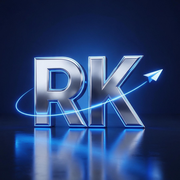
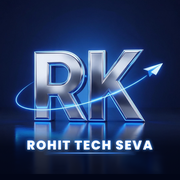
Rohit Tech Seva branding + Follow/Join social links (YouTube, WhatsApp Channel, Instagram, Facebook)

diff --git a/index.html b/index.html
@@ -3,12 +3,13 @@
 <head>
 <meta charset="utf-8">
 <meta name="viewport" content="width=1280">
-<title>Rudra Kumar (Rohit Malhotra) – Computer Operator &amp; Cyber Cafe · Gaya, Bihar</title>
-<meta name="description" content="Rudra Kumar (Rohit Malhotra) – Computer Operator, Cyber Cafe owner and YouTuber (Travel with RK) from Paraiya, Gaya, Bihar. Online forms, government services, data entry, MS Office.">
-<meta name="keywords" content="Rudra Kumar, Rohit Malhotra, Rohit Malhotra Gaya, Rudra Kumar Gaya, Rohit Malhotra Paraiya, Rudra Kumar Paraiya, Rohit Malhotra Cyber Cafe, Rohit Malhotra Bihar, Rudra Kumar Bihar, Travel with RK, Travel with RK YouTube, RK Gaya, Rudra Kumar Manjhiyawan, Rohit Malhotra Manjhiyawan, Cyber Cafe Gaya, Cyber Cafe Paraiya, Online Form Gaya, Online Form Paraiya, Computer Operator Gaya, Computer Operator Paraiya, Data Entry Gaya, Data Entry Paraiya, Aadhaar Update Gaya, Aadhaar Update Paraiya, PAN Card Gaya, PAN Card Paraiya, RTPS Certificate Gaya, RTPS Certificate Paraiya, Income Certificate Gaya, Income Certificate Paraiya, Caste Certificate Gaya, Caste Certificate Paraiya, Residence Certificate Gaya, Residence Certificate Paraiya, Ration Card e-KYC Gaya, Ration Card e-KYC Paraiya, Ayushman Card Gaya, Ayushman Card Paraiya, Voter ID Gaya, Voter ID Paraiya, Job Form Gaya, Job Form Paraiya, Scholarship Form Gaya, Scholarship Form Paraiya, Bank Form Gaya, Bank Form Paraiya, Photocopy Print Gaya, Photocopy Print Paraiya, Passport Photo Gaya, Passport Photo Paraiya, Online Recharge Gaya, Online Recharge Paraiya, Bill Payment Gaya, Bill Payment Paraiya, Railway Ticket Gaya, Railway Ticket Paraiya, MS Office Gaya, MS Office Paraiya, Typing Gaya, Typing Paraiya, Resume Banana Gaya, Resume Banana Paraiya, Cyber Cafe Manjhiyawan, Cyber Cafe Bihar, Cyber Cafe Gaya Bihar, Cyber Cafe Paraiya Gaya, Cyber Cafe Bodh Gaya, Cyber Cafe Tekari, Cyber Cafe Konch, Cyber Cafe Sherghati, Online Form Bihar, Online Form Bodh Gaya, Online Form Tekari, Online Form Sherghati, Online Form Konch, Computer Operator Bihar, Computer Operator Bodh Gaya, Computer Operator Tekari, Computer Operator Sherghati, Computer Operator Konch, Data Entry Bihar, Data Entry Bodh Gaya, Data Entry Tekari, Data Entry Sherghati, Data Entry Konch, Aadhaar Update Bihar, Aadhaar Update Bodh Gaya, Aadhaar Update Tekari, Aadhaar Update Sherghati, Aadhaar Update Konch, PAN Card Bihar, PAN Card Bodh Gaya, PAN Card Tekari, PAN Card Sherghati, PAN Card Konch, RTPS Certificate Bihar, RTPS Certificate Bodh Gaya, RTPS Certificate Tekari, RTPS Certificate Sherghati, RTPS Certificate Konch">
-<meta property="og:title" content="Rudra Kumar (Rohit Malhotra) – Gaya, Bihar">
-<meta property="og:description" content="Computer Operator · Cyber Cafe Owner · YouTuber (Travel with RK) · Gaya, Bihar">
-<meta property="og:image" content="https://rohitmalhotra-gaya.github.io/og.jpg">
+<title>Rohit Tech Seva – Online Seva, Cyber Cafe &amp; YouTube · Gaya, Bihar</title>
+<meta name="description" content="Rohit Tech Seva – online forms, government services (Aadhaar, PAN, Ration Card, Ayushman, RTPS certificates), cyber cafe and Hindi how-to YouTube videos from Paraiya, Gaya, Bihar. Run by Rohit Malhotra (Rudra Kumar).">
+<meta name="keywords" content="Rudra Kumar, Rohit Malhotra, Rohit Malhotra Gaya, Rudra Kumar Gaya, Rohit Malhotra Paraiya, Rudra Kumar Paraiya, Rohit Malhotra Cyber Cafe, Rohit Malhotra Bihar, Rudra Kumar Bihar, Rohit Tech Seva, Rohit Tech Seva YouTube, RK Gaya, Rudra Kumar Manjhiyawan, Rohit Malhotra Manjhiyawan, Cyber Cafe Gaya, Cyber Cafe Paraiya, Online Form Gaya, Online Form Paraiya, Computer Operator Gaya, Computer Operator Paraiya, Data Entry Gaya, Data Entry Paraiya, Aadhaar Update Gaya, Aadhaar Update Paraiya, PAN Card Gaya, PAN Card Paraiya, RTPS Certificate Gaya, RTPS Certificate Paraiya, Income Certificate Gaya, Income Certificate Paraiya, Caste Certificate Gaya, Caste Certificate Paraiya, Residence Certificate Gaya, Residence Certificate Paraiya, Ration Card e-KYC Gaya, Ration Card e-KYC Paraiya, Ayushman Card Gaya, Ayushman Card Paraiya, Voter ID Gaya, Voter ID Paraiya, Job Form Gaya, Job Form Paraiya, Scholarship Form Gaya, Scholarship Form Paraiya, Bank Form Gaya, Bank Form Paraiya, Photocopy Print Gaya, Photocopy Print Paraiya, Passport Photo Gaya, Passport Photo Paraiya, Online Recharge Gaya, Online Recharge Paraiya, Bill Payment Gaya, Bill Payment Paraiya, Railway Ticket Gaya, Railway Ticket Paraiya, MS Office Gaya, MS Office Paraiya, Typing Gaya, Typing Paraiya, Resume Banana Gaya, Resume Banana Paraiya, Cyber Cafe Manjhiyawan, Cyber Cafe Bihar, Cyber Cafe Gaya Bihar, Cyber Cafe Paraiya Gaya, Cyber Cafe Bodh Gaya, Cyber Cafe Tekari, Cyber Cafe Konch, Cyber Cafe Sherghati, Online Form Bihar, Online Form Bodh Gaya, Online Form Tekari, Online Form Sherghati, Online Form Konch, Computer Operator Bihar, Computer Operator Bodh Gaya, Computer Operator Tekari, Computer Operator Sherghati, Computer Operator Konch, Data Entry Bihar, Data Entry Bodh Gaya, Data Entry Tekari, Data Entry Sherghati, Data Entry Konch, Aadhaar Update Bihar, Aadhaar Update Bodh Gaya, Aadhaar Update Tekari, Aadhaar Update Sherghati, Aadhaar Update Konch, PAN Card Bihar, PAN Card Bodh Gaya, PAN Card Tekari, PAN Card Sherghati, PAN Card Konch, RTPS Certificate Bihar, RTPS Certificate Bodh Gaya, RTPS Certificate Tekari, RTPS Certificate Sherghati, RTPS Certificate Konch">
+<meta property="og:title" content="Rohit Tech Seva – Gaya, Bihar">
+<meta property="og:site_name" content="Rohit Tech Seva">
+<meta property="og:description" content="Computer Operator · Cyber Cafe Owner · YouTuber (Rohit Tech Seva) · Gaya, Bihar">
+<meta property="og:image" content="https://rohitmalhotra-gaya.github.io/og-rts.jpg">
 <meta property="og:type" content="website">
 <meta name="twitter:card" content="summary_large_image">
 <meta name="theme-color" content="#050b1f">
@@ -26,9 +27,9 @@
 
 <header class="nav" id="nav">
   <div class="container nav-in">
-    <a class="brand" href="#top" aria-label="Rudra Kumar – home"><img src="rk-logo-96.jpg" alt="" width="40" height="40"><span>Rudra <em>Kumar</em></span></a>
+    <a class="brand" href="#top" aria-label="Rohit Tech Seva – home"><img src="rts-logo-96.jpg" alt="Rohit Tech Seva logo" width="40" height="40"><span>Rohit <em>Tech Seva</em></span></a>
     <nav aria-label="Sections" class="links">
-      <a href="#about">About</a><a href="#cafe">Cyber Cafe</a><a href="#youtube">YouTube</a><a href="#contact">Contact</a>
+      <a href="#about">About</a><a href="#cafe">Cyber Cafe</a><a href="#youtube">YouTube</a><a href="#follow">Follow</a><a href="#contact">Contact</a>
     </nav>
     <a class="btn btn-y btn-sm nav-cta" href="mailto:rk8122170@gmail.com"><svg viewBox="0 0 24 24" aria-hidden="true" fill="none" stroke="currentColor" stroke-width="1.8" stroke-linecap="round" stroke-linejoin="round"><rect x="3" y="5" width="18" height="14" rx="2"/><path d="M3 7l9 6 9-6"/></svg><span>Email</span></a>
   </div>
@@ -39,12 +40,12 @@
   <div class="container hero-grid">
     <div class="hero-photo reveal">
       <div class="ring"><div class="ring-in"><img src="rudra.jpg" alt="Photo of Rudra Kumar" width="600" height="800" fetchpriority="high"></div></div>
-      <img class="hero-logo" src="rk-logo-320.jpg" alt="RK logo – Travel with RK" width="96" height="96">
+      <img class="hero-logo" src="rts-logo-320.jpg" alt="Rohit Tech Seva logo" width="96" height="96">
     </div>
     <div class="hero-copy">
-      <p class="pill reveal"><span class="dot"></span>Rohit Malhotra · Gaya, Bihar</p>
-      <h1 class="reveal" style="--d:80ms">Hi, I'm <span class="y">Rudra Kumar</span></h1>
-      <p class="tagline reveal" style="--d:140ms">B.A. Graduate · Computer Operator · Cyber Cafe Owner · YouTuber</p>
+      <p class="pill reveal"><span class="dot"></span>by Rohit Malhotra (Rudra Kumar) · Gaya, Bihar</p>
+      <h1 class="reveal" style="--d:80ms">Rohit <span class="y">Tech Seva</span></h1>
+      <p class="tagline reveal" style="--d:140ms">Online Seva · Cyber Cafe · YouTube · Gaya, Bihar</p>
       <p class="intro reveal" style="--d:200ms">Digital services, government forms and online work — all in one place.</p>
       <div class="cta reveal" style="--d:260ms">
         <a class="btn btn-y" href="mailto:rk8122170@gmail.com"><svg viewBox="0 0 24 24" aria-hidden="true" fill="none" stroke="currentColor" stroke-width="1.8" stroke-linecap="round" stroke-linejoin="round"><rect x="3" y="5" width="18" height="14" rx="2"/><path d="M3 7l9 6 9-6"/></svg>Email</a>
@@ -52,7 +53,8 @@
       <div class="socials reveal" style="--d:320ms" aria-label="Social links">
         <a href="https://www.instagram.com/mr._.rohitmalhotra/" target="_blank" rel="noopener" aria-label="Instagram"><svg viewBox="0 0 24 24" aria-hidden="true" fill="none" stroke="currentColor" stroke-width="1.8"><rect x="3" y="3" width="18" height="18" rx="5"/><circle cx="12" cy="12" r="4"/><circle cx="17.5" cy="6.5" r="1" fill="currentColor" stroke="none"/></svg></a>
         <a href="https://www.facebook.com/share/1C2KRwQqYV/" target="_blank" rel="noopener" aria-label="Facebook"><svg viewBox="0 0 24 24" aria-hidden="true"><path fill="currentColor" d="M13.5 22v-8h2.7l.4-3.2h-3.1V8.8c0-.9.3-1.6 1.6-1.6h1.7V4.4c-.3 0-1.3-.1-2.5-.1-2.5 0-4.1 1.5-4.1 4.2v2.3H7.4V14h2.8v8z"/></svg></a>
-        <a href="https://www.youtube.com/@travelwithrk-2" target="_blank" rel="noopener" aria-label="YouTube"><svg viewBox="0 0 24 24" aria-hidden="true"><path fill="currentColor" d="M23 7.2a3 3 0 0 0-2.1-2.1C19 4.6 12 4.6 12 4.6s-7 0-8.9.5A3 3 0 0 0 1 7.2 31 31 0 0 0 .5 12a31 31 0 0 0 .5 4.8 3 3 0 0 0 2.1 2.1c1.9.5 8.9.5 8.9.5s7 0 8.9-.5a3 3 0 0 0 2.1-2.1 31 31 0 0 0 .5-4.8 31 31 0 0 0-.5-4.8zM9.75 15V9l5.75 3z"/></svg></a>
+        <a href="https://www.youtube.com/@rohittechseva" target="_blank" rel="noopener" aria-label="YouTube"><svg viewBox="0 0 24 24" aria-hidden="true"><path fill="currentColor" d="M23 7.2a3 3 0 0 0-2.1-2.1C19 4.6 12 4.6 12 4.6s-7 0-8.9.5A3 3 0 0 0 1 7.2 31 31 0 0 0 .5 12a31 31 0 0 0 .5 4.8 3 3 0 0 0 2.1 2.1c1.9.5 8.9.5 8.9.5s7 0 8.9-.5a3 3 0 0 0 2.1-2.1 31 31 0 0 0 .5-4.8 31 31 0 0 0-.5-4.8zM9.75 15V9l5.75 3z"/></svg></a>
+        <a href="https://whatsapp.com/channel/0029VbDy0eJIN9ikIs6v2k0Z" target="_blank" rel="noopener" aria-label="WhatsApp Channel"><svg viewBox="0 0 24 24" aria-hidden="true"><path fill="currentColor" d="M12.04 2C6.58 2 2.13 6.45 2.13 11.91c0 1.75.46 3.45 1.32 4.95L2.05 22l5.25-1.38a9.9 9.9 0 0 0 4.74 1.21c5.46 0 9.91-4.45 9.91-9.91C21.95 6.45 17.5 2 12.04 2zm5.8 14.13c-.24.68-1.42 1.3-1.95 1.35-.5.05-.97.23-3.27-.68-2.77-1.09-4.52-3.92-4.66-4.1-.13-.18-1.11-1.48-1.11-2.82 0-1.34.7-2 .95-2.27.25-.27.54-.34.72-.34h.52c.17 0 .39-.06.61.47.24.56.79 1.92.86 2.06.07.14.11.3.02.48-.09.18-.14.3-.27.46-.14.16-.29.36-.41.48-.14.14-.28.29-.12.56.16.27.71 1.17 1.52 1.89 1.04.93 1.92 1.22 2.19 1.35.27.14.43.11.59-.07.16-.18.68-.79.86-1.07.18-.27.36-.23.61-.14.25.09 1.59.75 1.86.89.27.14.45.2.52.32.07.11.07.66-.17 1.34z"/></svg></a>
         <a href="https://www.linkedin.com/in/rudrakumar-gaya" target="_blank" rel="noopener" aria-label="LinkedIn"><svg viewBox="0 0 24 24" aria-hidden="true"><path fill="currentColor" d="M4.98 3.5a2.5 2.5 0 1 1 0 5 2.5 2.5 0 0 1 0-5zM3 9.75h4v11H3zm7 0h3.8v1.5h.06a4.2 4.2 0 0 1 3.78-2.08c4.04 0 4.36 2.66 4.36 6.1v5.48h-4v-4.86c0-1.16 0-2.65-1.62-2.65s-1.86 1.26-1.86 2.57v4.94h-4z"/></svg></a>
       </div>
     </div>
@@ -124,18 +126,32 @@
 <section id="youtube" class="section">
   <div class="container">
     <p class="eyebrow reveal">YouTube</p>
-    <h2 class="reveal">Travel with <span class="y">RK</span></h2>
-    <p class="sub reveal">@travelwithrk-2 · 7.4K+ subscribers · Helpful how-to videos in Hindi</p>
-    <a class="banner reveal" href="https://www.youtube.com/@travelwithrk-2" target="_blank" rel="noopener" aria-label="Open Travel with RK on YouTube"><img src="banner.jpg" alt="Travel with RK channel banner" width="1600" height="900" loading="lazy"></a>
+    <h2 class="reveal">Rohit Tech <span class="y">Seva</span></h2>
+    <p class="sub reveal">@rohittechseva · 7.4K+ subscribers · Helpful how-to videos in Hindi</p>
+    <a class="banner reveal" href="https://www.youtube.com/@rohittechseva" target="_blank" rel="noopener" aria-label="Open Rohit Tech Seva on YouTube"><img src="banner.jpg" alt="Rohit Tech Seva channel banner" width="1600" height="900" loading="lazy"></a>
     <div class="yt-grid">
-      <a class="video glass reveal" href="https://www.youtube.com/watch?v=aO0Y3cauSPk" target="_blank" rel="noopener" data-yt="aO0Y3cauSPk" aria-label="Play video: Ration card e-KYC – Travel with RK"><img src="video-thumb.jpg" alt="Ration card e-KYC – Travel with RK video" width="960" height="540" loading="lazy"><span class="play" aria-hidden="true"><svg viewBox="0 0 24 24"><path fill="currentColor" d="M8 5v14l11-7z"/></svg></span></a>
+      <a class="video glass reveal" href="https://www.youtube.com/watch?v=aO0Y3cauSPk" target="_blank" rel="noopener" data-yt="aO0Y3cauSPk" aria-label="Play video: Ration card e-KYC – Rohit Tech Seva"><img src="video-thumb.jpg" alt="Ration card e-KYC – Rohit Tech Seva video" width="960" height="540" loading="lazy"><span class="play" aria-hidden="true"><svg viewBox="0 0 24 24"><path fill="currentColor" d="M8 5v14l11-7z"/></svg></span></a>
       <aside class="glass yt-card reveal" style="--d:80ms">
-        <img src="channel-qr.jpg" alt="Travel with RK channel QR code poster" width="620" height="877" loading="lazy">
+        <img src="channel-qr.jpg" alt="Rohit Tech Seva channel QR code poster" width="620" height="877" loading="lazy">
         <div class="yt-btns">
-          <a class="btn btn-red" href="https://www.youtube.com/@travelwithrk-2?sub_confirmation=1" target="_blank" rel="noopener"><svg viewBox="0 0 24 24" aria-hidden="true"><path fill="currentColor" d="M23 7.2a3 3 0 0 0-2.1-2.1C19 4.6 12 4.6 12 4.6s-7 0-8.9.5A3 3 0 0 0 1 7.2 31 31 0 0 0 .5 12a31 31 0 0 0 .5 4.8 3 3 0 0 0 2.1 2.1c1.9.5 8.9.5 8.9.5s7 0 8.9-.5a3 3 0 0 0 2.1-2.1 31 31 0 0 0 .5-4.8 31 31 0 0 0-.5-4.8zM9.75 15V9l5.75 3z"/></svg>Subscribe</a>
-          <a class="btn btn-glass" href="https://www.youtube.com/@travelwithrk-2" target="_blank" rel="noopener"><svg viewBox="0 0 24 24" aria-hidden="true" fill="none" stroke="currentColor" stroke-width="1.8" stroke-linecap="round" stroke-linejoin="round"><path d="M14 4h6v6M20 4l-9 9M18 14v5a1 1 0 0 1-1 1H5a1 1 0 0 1-1-1V7a1 1 0 0 1 1-1h5"/></svg>Visit Channel</a>
+          <a class="btn btn-red" href="https://www.youtube.com/@rohittechseva?sub_confirmation=1" target="_blank" rel="noopener"><svg viewBox="0 0 24 24" aria-hidden="true"><path fill="currentColor" d="M23 7.2a3 3 0 0 0-2.1-2.1C19 4.6 12 4.6 12 4.6s-7 0-8.9.5A3 3 0 0 0 1 7.2 31 31 0 0 0 .5 12a31 31 0 0 0 .5 4.8 3 3 0 0 0 2.1 2.1c1.9.5 8.9.5 8.9.5s7 0 8.9-.5a3 3 0 0 0 2.1-2.1 31 31 0 0 0 .5-4.8 31 31 0 0 0-.5-4.8zM9.75 15V9l5.75 3z"/></svg>Subscribe</a>
+          <a class="btn btn-glass" href="https://www.youtube.com/@rohittechseva" target="_blank" rel="noopener"><svg viewBox="0 0 24 24" aria-hidden="true" fill="none" stroke="currentColor" stroke-width="1.8" stroke-linecap="round" stroke-linejoin="round"><path d="M14 4h6v6M20 4l-9 9M18 14v5a1 1 0 0 1-1 1H5a1 1 0 0 1-1-1V7a1 1 0 0 1 1-1h5"/></svg>Visit Channel</a>
         </div>
       </aside>
+    </div>
+  </div>
+</section>
+
+<section id="follow" class="section follow">
+  <div class="container">
+    <p class="eyebrow reveal">Follow / Join</p>
+    <h2 class="reveal">Follow <span class="y">Rohit Tech Seva</span></h2>
+    <p class="sub reveal">सरकारी योजना और ऑनलाइन सेवा की हर नई जानकारी के लिए जुड़ें</p>
+    <div class="follow-grid">
+      <a class="follow-btn reveal" href="https://www.youtube.com/@rohittechseva?sub_confirmation=1" target="_blank" rel="noopener"><span class="f-ico"><svg viewBox="0 0 24 24" aria-hidden="true"><path fill="currentColor" d="M23 7.2a3 3 0 0 0-2.1-2.1C19 4.6 12 4.6 12 4.6s-7 0-8.9.5A3 3 0 0 0 1 7.2 31 31 0 0 0 .5 12a31 31 0 0 0 .5 4.8 3 3 0 0 0 2.1 2.1c1.9.5 8.9.5 8.9.5s7 0 8.9-.5a3 3 0 0 0 2.1-2.1 31 31 0 0 0 .5-4.8 31 31 0 0 0-.5-4.8zM9.75 15V9l5.75 3z"/></svg></span><span class="f-txt"><b>YouTube</b><small>Subscribe</small></span></a>
+      <a class="follow-btn reveal" href="https://whatsapp.com/channel/0029VbDy0eJIN9ikIs6v2k0Z" target="_blank" rel="noopener"><span class="f-ico"><svg viewBox="0 0 24 24" aria-hidden="true"><path fill="currentColor" d="M12.04 2C6.58 2 2.13 6.45 2.13 11.91c0 1.75.46 3.45 1.32 4.95L2.05 22l5.25-1.38a9.9 9.9 0 0 0 4.74 1.21c5.46 0 9.91-4.45 9.91-9.91C21.95 6.45 17.5 2 12.04 2zm5.8 14.13c-.24.68-1.42 1.3-1.95 1.35-.5.05-.97.23-3.27-.68-2.77-1.09-4.52-3.92-4.66-4.1-.13-.18-1.11-1.48-1.11-2.82 0-1.34.7-2 .95-2.27.25-.27.54-.34.72-.34h.52c.17 0 .39-.06.61.47.24.56.79 1.92.86 2.06.07.14.11.3.02.48-.09.18-.14.3-.27.46-.14.16-.29.36-.41.48-.14.14-.28.29-.12.56.16.27.71 1.17 1.52 1.89 1.04.93 1.92 1.22 2.19 1.35.27.14.43.11.59-.07.16-.18.68-.79.86-1.07.18-.27.36-.23.61-.14.25.09 1.59.75 1.86.89.27.14.45.2.52.32.07.11.07.66-.17 1.34z"/></svg></span><span class="f-txt"><b>WhatsApp Channel</b><small>Join Channel</small></span></a>
+      <a class="follow-btn reveal" href="https://www.instagram.com/mr._.rohitmalhotra/" target="_blank" rel="noopener"><span class="f-ico"><svg viewBox="0 0 24 24" aria-hidden="true" fill="none" stroke="currentColor" stroke-width="1.8"><rect x="3" y="3" width="18" height="18" rx="5"/><circle cx="12" cy="12" r="4"/><circle cx="17.5" cy="6.5" r="1" fill="currentColor" stroke="none"/></svg></span><span class="f-txt"><b>Instagram</b><small>Follow</small></span></a>
+      <a class="follow-btn reveal" href="https://www.facebook.com/share/1C2KRwQqYV/" target="_blank" rel="noopener"><span class="f-ico"><svg viewBox="0 0 24 24" aria-hidden="true"><path fill="currentColor" d="M13.5 22v-8h2.7l.4-3.2h-3.1V8.8c0-.9.3-1.6 1.6-1.6h1.7V4.4c-.3 0-1.3-.1-2.5-.1-2.5 0-4.1 1.5-4.1 4.2v2.3H7.4V14h2.8v8z"/></svg></span><span class="f-txt"><b>Facebook</b><small>Follow</small></span></a>
     </div>
   </div>
 </section>
@@ -148,7 +164,8 @@
       <a class="glass contact reveal" href="mailto:rk8122170@gmail.com"><span class="ico"><svg viewBox="0 0 24 24" aria-hidden="true" fill="none" stroke="currentColor" stroke-width="1.8" stroke-linecap="round" stroke-linejoin="round"><rect x="3" y="5" width="18" height="14" rx="2"/><path d="M3 7l9 6 9-6"/></svg></span><span><b>Email</b><small>rk8122170@gmail.com</small></span></a>
       <a class="glass contact reveal" href="https://www.instagram.com/mr._.rohitmalhotra/" target="_blank" rel="noopener"><span class="ico"><svg viewBox="0 0 24 24" aria-hidden="true" fill="none" stroke="currentColor" stroke-width="1.8"><rect x="3" y="3" width="18" height="18" rx="5"/><circle cx="12" cy="12" r="4"/><circle cx="17.5" cy="6.5" r="1" fill="currentColor" stroke="none"/></svg></span><span><b>Instagram</b><small>@mr._.rohitmalhotra</small></span></a>
       <a class="glass contact reveal" href="https://www.facebook.com/share/1C2KRwQqYV/" target="_blank" rel="noopener"><span class="ico"><svg viewBox="0 0 24 24" aria-hidden="true"><path fill="currentColor" d="M13.5 22v-8h2.7l.4-3.2h-3.1V8.8c0-.9.3-1.6 1.6-1.6h1.7V4.4c-.3 0-1.3-.1-2.5-.1-2.5 0-4.1 1.5-4.1 4.2v2.3H7.4V14h2.8v8z"/></svg></span><span><b>Facebook</b><small>Rudra Kumar</small></span></a>
-      <a class="glass contact reveal" href="https://www.youtube.com/@travelwithrk-2" target="_blank" rel="noopener"><span class="ico"><svg viewBox="0 0 24 24" aria-hidden="true"><path fill="currentColor" d="M23 7.2a3 3 0 0 0-2.1-2.1C19 4.6 12 4.6 12 4.6s-7 0-8.9.5A3 3 0 0 0 1 7.2 31 31 0 0 0 .5 12a31 31 0 0 0 .5 4.8 3 3 0 0 0 2.1 2.1c1.9.5 8.9.5 8.9.5s7 0 8.9-.5a3 3 0 0 0 2.1-2.1 31 31 0 0 0 .5-4.8 31 31 0 0 0-.5-4.8zM9.75 15V9l5.75 3z"/></svg></span><span><b>YouTube</b><small>@travelwithrk-2</small></span></a>
+      <a class="glass contact reveal" href="https://www.youtube.com/@rohittechseva" target="_blank" rel="noopener"><span class="ico"><svg viewBox="0 0 24 24" aria-hidden="true"><path fill="currentColor" d="M23 7.2a3 3 0 0 0-2.1-2.1C19 4.6 12 4.6 12 4.6s-7 0-8.9.5A3 3 0 0 0 1 7.2 31 31 0 0 0 .5 12a31 31 0 0 0 .5 4.8 3 3 0 0 0 2.1 2.1c1.9.5 8.9.5 8.9.5s7 0 8.9-.5a3 3 0 0 0 2.1-2.1 31 31 0 0 0 .5-4.8 31 31 0 0 0-.5-4.8zM9.75 15V9l5.75 3z"/></svg></span><span><b>YouTube</b><small>@rohittechseva</small></span></a>
+      <a class="glass contact reveal" href="https://whatsapp.com/channel/0029VbDy0eJIN9ikIs6v2k0Z" target="_blank" rel="noopener"><span class="ico"><svg viewBox="0 0 24 24" aria-hidden="true"><path fill="currentColor" d="M12.04 2C6.58 2 2.13 6.45 2.13 11.91c0 1.75.46 3.45 1.32 4.95L2.05 22l5.25-1.38a9.9 9.9 0 0 0 4.74 1.21c5.46 0 9.91-4.45 9.91-9.91C21.95 6.45 17.5 2 12.04 2zm5.8 14.13c-.24.68-1.42 1.3-1.95 1.35-.5.05-.97.23-3.27-.68-2.77-1.09-4.52-3.92-4.66-4.1-.13-.18-1.11-1.48-1.11-2.82 0-1.34.7-2 .95-2.27.25-.27.54-.34.72-.34h.52c.17 0 .39-.06.61.47.24.56.79 1.92.86 2.06.07.14.11.3.02.48-.09.18-.14.3-.27.46-.14.16-.29.36-.41.48-.14.14-.28.29-.12.56.16.27.71 1.17 1.52 1.89 1.04.93 1.92 1.22 2.19 1.35.27.14.43.11.59-.07.16-.18.68-.79.86-1.07.18-.27.36-.23.61-.14.25.09 1.59.75 1.86.89.27.14.45.2.52.32.07.11.07.66-.17 1.34z"/></svg></span><span><b>WhatsApp Channel</b><small>Rohit Tech Seva</small></span></a>
       <a class="glass contact reveal" href="https://www.linkedin.com/in/rudrakumar-gaya" target="_blank" rel="noopener"><span class="ico"><svg viewBox="0 0 24 24" aria-hidden="true"><path fill="currentColor" d="M4.98 3.5a2.5 2.5 0 1 1 0 5 2.5 2.5 0 0 1 0-5zM3 9.75h4v11H3zm7 0h3.8v1.5h.06a4.2 4.2 0 0 1 3.78-2.08c4.04 0 4.36 2.66 4.36 6.1v5.48h-4v-4.86c0-1.16 0-2.65-1.62-2.65s-1.86 1.26-1.86 2.57v4.94h-4z"/></svg></span><span><b>LinkedIn</b><small>rudrakumar-gaya</small></span></a>
     </div>
   </div>
@@ -158,23 +175,24 @@
 <footer class="footer">
   <div class="container">
     <div class="foot-top">
-      <a class="brand" href="#top"><img src="rk-logo-96.jpg" alt="" width="40" height="40" loading="lazy"><span>Rudra <em>Kumar</em></span></a>
+      <a class="brand" href="#top"><img src="rts-logo-96.jpg" alt="Rohit Tech Seva logo" width="40" height="40" loading="lazy"><span>Rohit <em>Tech Seva</em></span></a>
       <div class="socials small">
         <a href="https://www.instagram.com/mr._.rohitmalhotra/" target="_blank" rel="noopener" aria-label="Instagram"><svg viewBox="0 0 24 24" aria-hidden="true" fill="none" stroke="currentColor" stroke-width="1.8"><rect x="3" y="3" width="18" height="18" rx="5"/><circle cx="12" cy="12" r="4"/><circle cx="17.5" cy="6.5" r="1" fill="currentColor" stroke="none"/></svg></a>
         <a href="https://www.facebook.com/share/1C2KRwQqYV/" target="_blank" rel="noopener" aria-label="Facebook"><svg viewBox="0 0 24 24" aria-hidden="true"><path fill="currentColor" d="M13.5 22v-8h2.7l.4-3.2h-3.1V8.8c0-.9.3-1.6 1.6-1.6h1.7V4.4c-.3 0-1.3-.1-2.5-.1-2.5 0-4.1 1.5-4.1 4.2v2.3H7.4V14h2.8v8z"/></svg></a>
-        <a href="https://www.youtube.com/@travelwithrk-2" target="_blank" rel="noopener" aria-label="YouTube"><svg viewBox="0 0 24 24" aria-hidden="true"><path fill="currentColor" d="M23 7.2a3 3 0 0 0-2.1-2.1C19 4.6 12 4.6 12 4.6s-7 0-8.9.5A3 3 0 0 0 1 7.2 31 31 0 0 0 .5 12a31 31 0 0 0 .5 4.8 3 3 0 0 0 2.1 2.1c1.9.5 8.9.5 8.9.5s7 0 8.9-.5a3 3 0 0 0 2.1-2.1 31 31 0 0 0 .5-4.8 31 31 0 0 0-.5-4.8zM9.75 15V9l5.75 3z"/></svg></a>
+        <a href="https://www.youtube.com/@rohittechseva" target="_blank" rel="noopener" aria-label="YouTube"><svg viewBox="0 0 24 24" aria-hidden="true"><path fill="currentColor" d="M23 7.2a3 3 0 0 0-2.1-2.1C19 4.6 12 4.6 12 4.6s-7 0-8.9.5A3 3 0 0 0 1 7.2 31 31 0 0 0 .5 12a31 31 0 0 0 .5 4.8 3 3 0 0 0 2.1 2.1c1.9.5 8.9.5 8.9.5s7 0 8.9-.5a3 3 0 0 0 2.1-2.1 31 31 0 0 0 .5-4.8 31 31 0 0 0-.5-4.8zM9.75 15V9l5.75 3z"/></svg></a>
+        <a href="https://whatsapp.com/channel/0029VbDy0eJIN9ikIs6v2k0Z" target="_blank" rel="noopener" aria-label="WhatsApp Channel"><svg viewBox="0 0 24 24" aria-hidden="true"><path fill="currentColor" d="M12.04 2C6.58 2 2.13 6.45 2.13 11.91c0 1.75.46 3.45 1.32 4.95L2.05 22l5.25-1.38a9.9 9.9 0 0 0 4.74 1.21c5.46 0 9.91-4.45 9.91-9.91C21.95 6.45 17.5 2 12.04 2zm5.8 14.13c-.24.68-1.42 1.3-1.95 1.35-.5.05-.97.23-3.27-.68-2.77-1.09-4.52-3.92-4.66-4.1-.13-.18-1.11-1.48-1.11-2.82 0-1.34.7-2 .95-2.27.25-.27.54-.34.72-.34h.52c.17 0 .39-.06.61.47.24.56.79 1.92.86 2.06.07.14.11.3.02.48-.09.18-.14.3-.27.46-.14.16-.29.36-.41.48-.14.14-.28.29-.12.56.16.27.71 1.17 1.52 1.89 1.04.93 1.92 1.22 2.19 1.35.27.14.43.11.59-.07.16-.18.68-.79.86-1.07.18-.27.36-.23.61-.14.25.09 1.59.75 1.86.89.27.14.45.2.52.32.07.11.07.66-.17 1.34z"/></svg></a>
         <a href="https://www.linkedin.com/in/rudrakumar-gaya" target="_blank" rel="noopener" aria-label="LinkedIn"><svg viewBox="0 0 24 24" aria-hidden="true"><path fill="currentColor" d="M4.98 3.5a2.5 2.5 0 1 1 0 5 2.5 2.5 0 0 1 0-5zM3 9.75h4v11H3zm7 0h3.8v1.5h.06a4.2 4.2 0 0 1 3.78-2.08c4.04 0 4.36 2.66 4.36 6.1v5.48h-4v-4.86c0-1.16 0-2.65-1.62-2.65s-1.86 1.26-1.86 2.57v4.94h-4z"/></svg></a>
       </div>
     </div>
-    <p class="kw">Rudra Kumar (Rohit Malhotra) · Rohit Malhotra Cyber Cafe, Paraiya, Gaya, Bihar · Online Form · Aadhaar Update · PAN Card · RTPS Certificate (Income, Caste, Residence) · Ration Card e-KYC · Ayushman Card · Voter ID · Job & Scholarship Form · Print, Photocopy · Passport Photo · Data Entry · Computer Operator · MS Office · Travel with RK YouTube · Gaya · Paraiya · Bodh Gaya · Tekari · Konch · Sherghati</p>
-    <p class="copy">© 2026 Rudra Kumar · Gaya, Bihar</p>
+    <p class="kw">Rudra Kumar (Rohit Malhotra) · Rohit Malhotra Cyber Cafe, Paraiya, Gaya, Bihar · Online Form · Aadhaar Update · PAN Card · RTPS Certificate (Income, Caste, Residence) · Ration Card e-KYC · Ayushman Card · Voter ID · Job & Scholarship Form · Print, Photocopy · Passport Photo · Data Entry · Computer Operator · MS Office · Rohit Tech Seva YouTube · Gaya · Paraiya · Bodh Gaya · Tekari · Konch · Sherghati</p>
+    <p class="copy">© 2026 Rohit Tech Seva · Gaya, Bihar</p>
   </div>
 </footer>
 
 <nav class="dock" aria-label="Quick contact">
   <a href="https://www.instagram.com/mr._.rohitmalhotra/" target="_blank" rel="noopener"><svg viewBox="0 0 24 24" aria-hidden="true" fill="none" stroke="currentColor" stroke-width="1.8"><rect x="3" y="3" width="18" height="18" rx="5"/><circle cx="12" cy="12" r="4"/><circle cx="17.5" cy="6.5" r="1" fill="currentColor" stroke="none"/></svg><span>Instagram</span></a>
   <a class="wa" href="mailto:rk8122170@gmail.com"><svg viewBox="0 0 24 24" aria-hidden="true" fill="none" stroke="currentColor" stroke-width="1.8" stroke-linecap="round" stroke-linejoin="round"><rect x="3" y="5" width="18" height="14" rx="2"/><path d="M3 7l9 6 9-6"/></svg><span>Email</span></a>
-  <a href="https://www.youtube.com/@travelwithrk-2" target="_blank" rel="noopener"><svg viewBox="0 0 24 24" aria-hidden="true"><path fill="currentColor" d="M23 7.2a3 3 0 0 0-2.1-2.1C19 4.6 12 4.6 12 4.6s-7 0-8.9.5A3 3 0 0 0 1 7.2 31 31 0 0 0 .5 12a31 31 0 0 0 .5 4.8 3 3 0 0 0 2.1 2.1c1.9.5 8.9.5 8.9.5s7 0 8.9-.5a3 3 0 0 0 2.1-2.1 31 31 0 0 0 .5-4.8 31 31 0 0 0-.5-4.8zM9.75 15V9l5.75 3z"/></svg><span>YouTube</span></a>
+  <a href="https://www.youtube.com/@rohittechseva" target="_blank" rel="noopener"><svg viewBox="0 0 24 24" aria-hidden="true"><path fill="currentColor" d="M23 7.2a3 3 0 0 0-2.1-2.1C19 4.6 12 4.6 12 4.6s-7 0-8.9.5A3 3 0 0 0 1 7.2 31 31 0 0 0 .5 12a31 31 0 0 0 .5 4.8 3 3 0 0 0 2.1 2.1c1.9.5 8.9.5 8.9.5s7 0 8.9-.5a3 3 0 0 0 2.1-2.1 31 31 0 0 0 .5-4.8 31 31 0 0 0-.5-4.8zM9.75 15V9l5.75 3z"/></svg><span>YouTube</span></a>
 </nav>
 <script src="script.js" defer></script>
 </body>

diff --git a/styles.css b/styles.css
@@ -1,5 +1,5 @@
 :root{
-  --bg:#050b1f;--bg2:#081436;--ink:#ffffff;--mute:#a9b8db;--blue:#2f7bff;--cyan:#38c8ff;--y:#ffd21f;--y2:#ffb800;--red:#ff2d3d;
+  --bg:#050b1f;--bg2:#081436;--ink:#ffffff;--mute:#a9b8db;--blue:#2f7bff;--cyan:#38c8ff;--y:#ffd21f;--y2:#ffb800;--red:#2f7bff;
   --glass:rgba(255,255,255,.055);--line:rgba(140,180,255,.18);--r:20px;
   --font:"Poppins",system-ui,-apple-system,"Segoe UI",Roboto,"Noto Sans Devanagari",sans-serif;
 }
@@ -42,7 +42,7 @@ svg{width:20px;height:20px;flex:none}
 .btn-y:hover{box-shadow:0 10px 30px rgba(255,200,0,.45);transform:translateY(-2px)}
 .btn-glass{background:rgba(255,255,255,.07);border:1px solid var(--line);color:#fff}
 .btn-glass:hover{background:rgba(255,255,255,.12);transform:translateY(-2px)}
-.btn-red{background:linear-gradient(180deg,#ff3b4a,#d9101f);color:#fff;box-shadow:0 8px 24px rgba(255,45,61,.3)}
+.btn-red{background:linear-gradient(135deg,#1e40af,#2f7bff);color:#fff;box-shadow:0 8px 22px rgba(47,123,255,.35)}
 .btn-sm{min-height:40px;padding:0 14px;font-size:14px;border-radius:12px}
 .nav-cta span{display:none}
 
@@ -122,7 +122,7 @@ h2{font-size:clamp(26px,7vw,40px);font-weight:800;line-height:1.15;letter-spacin
 .video{overflow:hidden;padding:0;aspect-ratio:16/9}
 .video{position:relative;display:block}
 .video img,.video iframe{width:100%;height:100%;border:0;display:block;object-fit:cover}
-.play{position:absolute;left:50%;top:50%;width:68px;height:68px;margin:-34px 0 0 -34px;border-radius:50%;display:grid;place-items:center;background:linear-gradient(180deg,#ff3b4a,#d9101f);color:#fff;box-shadow:0 0 0 8px rgba(255,45,61,.18),0 10px 30px rgba(0,0,0,.5);transition:transform .2s}
+.play{position:absolute;left:50%;top:50%;width:68px;height:68px;margin:-34px 0 0 -34px;border-radius:50%;display:grid;place-items:center;background:linear-gradient(180deg,#2f7bff,#1e40af);color:#fff;box-shadow:0 0 0 8px rgba(47,123,255,.18),0 10px 30px rgba(0,0,0,.5);transition:transform .2s}
 .play svg{width:30px;height:30px;margin-left:3px}
 .video:hover .play{transform:scale(1.08)}
 .yt-card{padding:16px;display:grid;grid-template-columns:110px 1fr;gap:14px;align-items:center}
@@ -186,3 +186,15 @@ h2{font-size:clamp(26px,7vw,40px);font-weight:800;line-height:1.15;letter-spacin
   *,*::before,*::after{animation:none!important;transition:none!important;scroll-behavior:auto!important}
   .js .reveal{opacity:1;transform:none}
 }
+
+/* Follow / Join section (Oct 26) – navy premium */
+.follow-grid{display:grid;grid-template-columns:repeat(4,1fr);gap:16px;margin-top:28px}
+.follow-btn{display:flex;align-items:center;gap:14px;padding:18px 20px;border-radius:18px;color:#fff;background:linear-gradient(135deg,#0f2a6b,#1d4ed8);border:1px solid rgba(140,180,255,.35);box-shadow:0 12px 30px rgba(2,8,30,.5),0 0 24px rgba(47,123,255,.18);transition:transform .15s,filter .15s}
+.follow-btn:hover{transform:translateY(-2px);filter:brightness(1.1)}
+.follow-btn .f-ico{display:inline-flex;align-items:center;justify-content:center;width:46px;height:46px;border-radius:12px;background:rgba(255,255,255,.12);flex:none}
+.follow-btn .f-ico svg{width:24px;height:24px}
+.follow-btn b{display:block;font-size:16px;line-height:1.3}
+.follow-btn small{display:block;font-size:12.5px;color:#bcd0ff}
+.btn-red{background:linear-gradient(135deg,#1e40af,#2f7bff)!important;color:#fff!important;box-shadow:0 8px 22px rgba(47,123,255,.35)!important}
+@media (max-width:900px){.follow-grid{grid-template-columns:repeat(2,1fr)}}
+@media (max-width:520px){.follow-grid{grid-template-columns:1fr}}
